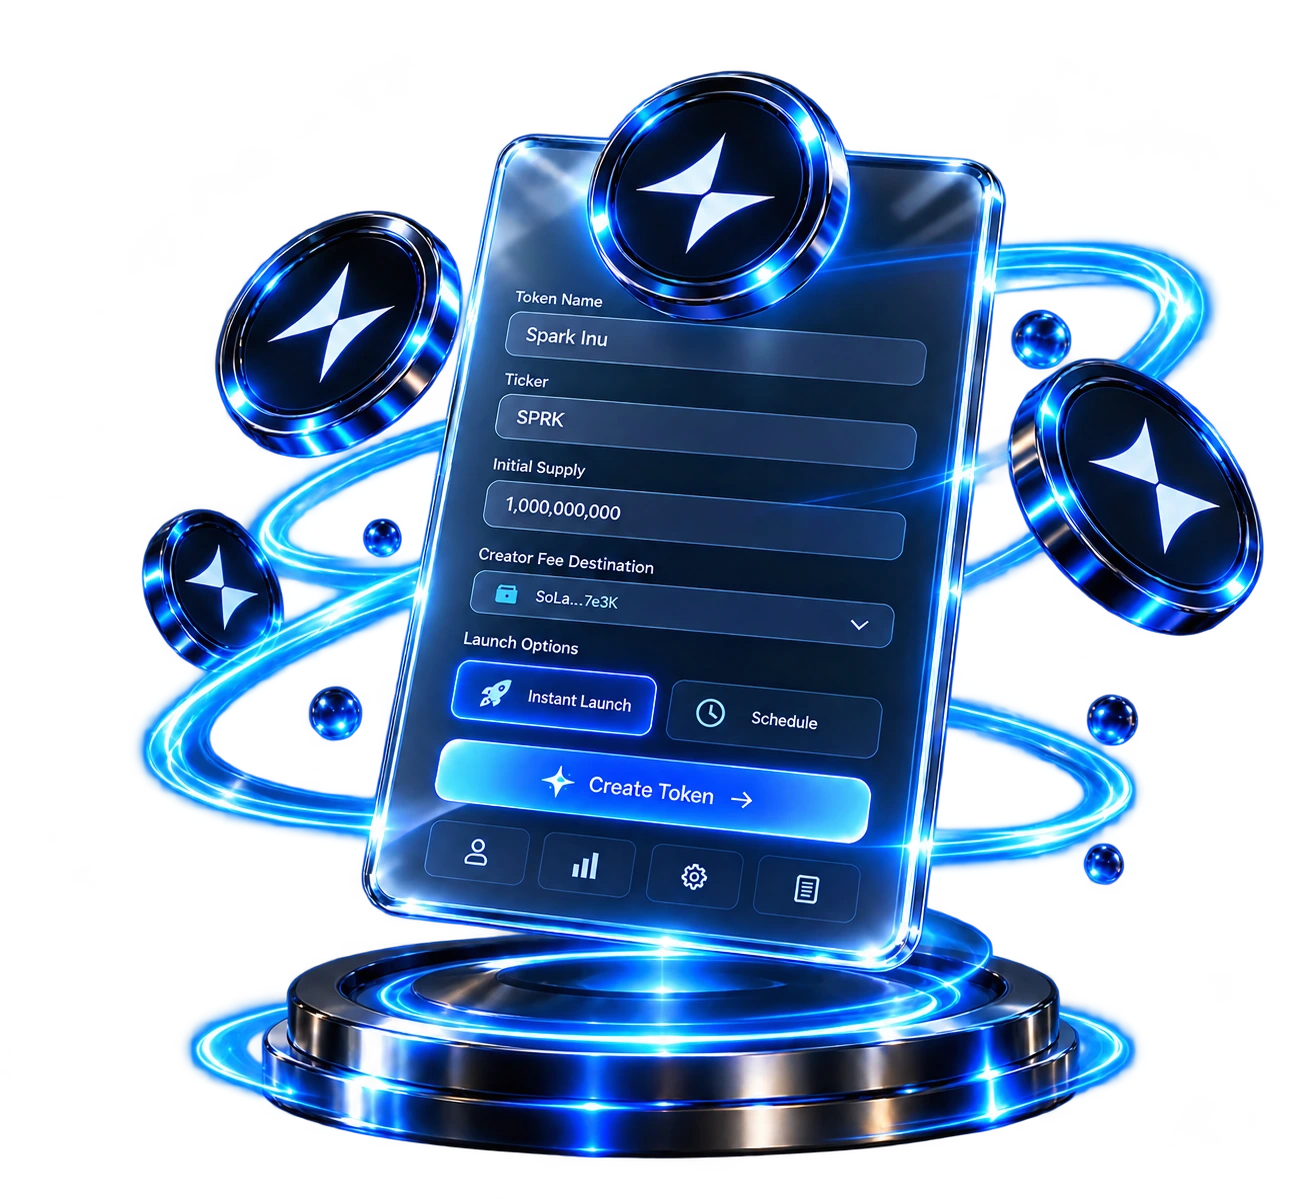
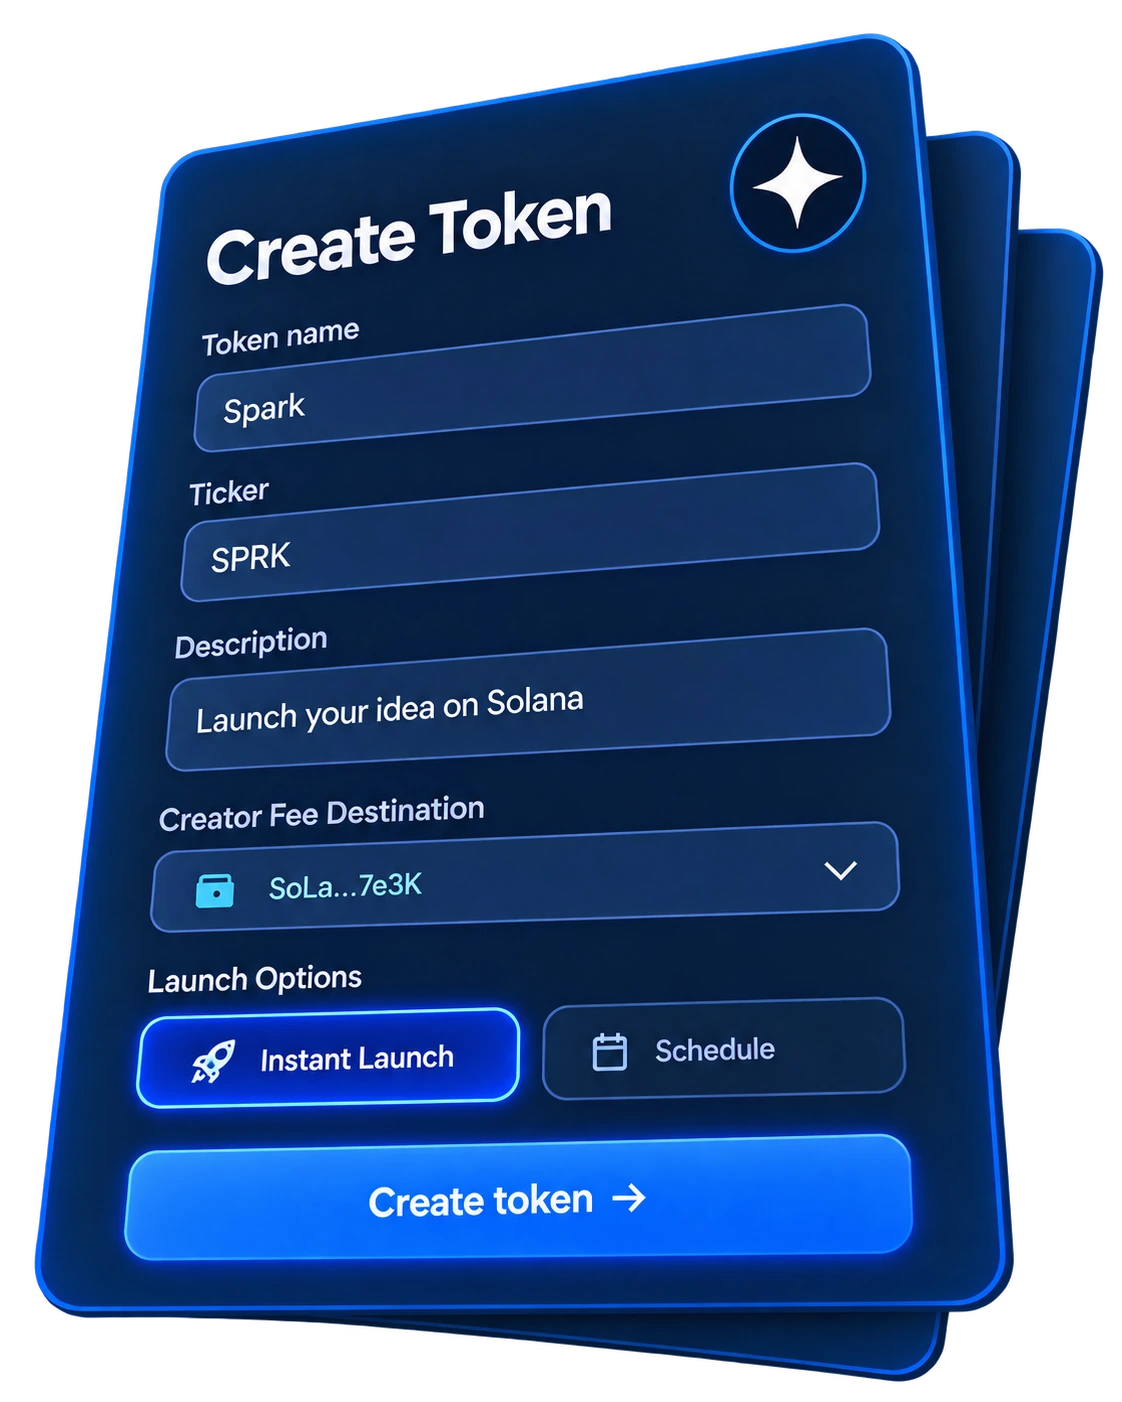
Use transparent stacked token cards in first section

diff --git a/index.html b/index.html
@@ -7,7 +7,7 @@
 <div class="story-content">
 <section class="story-section" aria-labelledby="launch-title">
 <div class="story-copy"><p class="eyebrow">01 / CREATE & DISCOVER</p><h2 id="launch-title">An idea.<br>Its first spark.</h2><p>Create a Solana coin, give it a name and identity, and choose where its creator fees go. Discover new launches through a dedicated terminal.</p><div class="story-tags"><span>Token details</span><span>Fee destination</span><span>Launch review</span></div><a class="button story-button" href="/terminal?view=launch">Create your next spark <span aria-hidden="true">→</span></a></div>
-<figure class="story-art"><img src="/assets/spark-launch-form.webp" alt="Spark token creation panel surrounded by Spark logo coins" width="1312" height="1199" loading="lazy" decoding="async"></figure>
+<figure class="story-art"><img src="/assets/spark-launch-form.webp" alt="Stacked Spark token creation cards" width="1122" height="1402" loading="lazy" decoding="async"></figure>
 </section>
 <section class="story-section reverse" aria-labelledby="fees-title">
 <div class="story-copy"><p class="eyebrow">02 / YOUR FEE DESTINATION</p><h2 id="fees-title">Choose where<br>the spark goes.</h2><p>Spark’s fee destinations give each launch a clear purpose. See the policy before you create a coin.</p><dl class="destination-list"><div><dt>Creator</dt><dd>Creator-fee split: 70% to the creator, 30% to Spark.</dd></div><div><dt>Burn</dt><dd>The 70% destination funds token purchases and verified burns.</dd></div><div><dt>Holders</dt><dd>Native Pump holder rewards for eligible holders, with no Spark creator-fee share in this mode.</dd></div></dl><a class="button story-button" href="/docs">See how it works <span aria-hidden="true">→</span></a></div>
